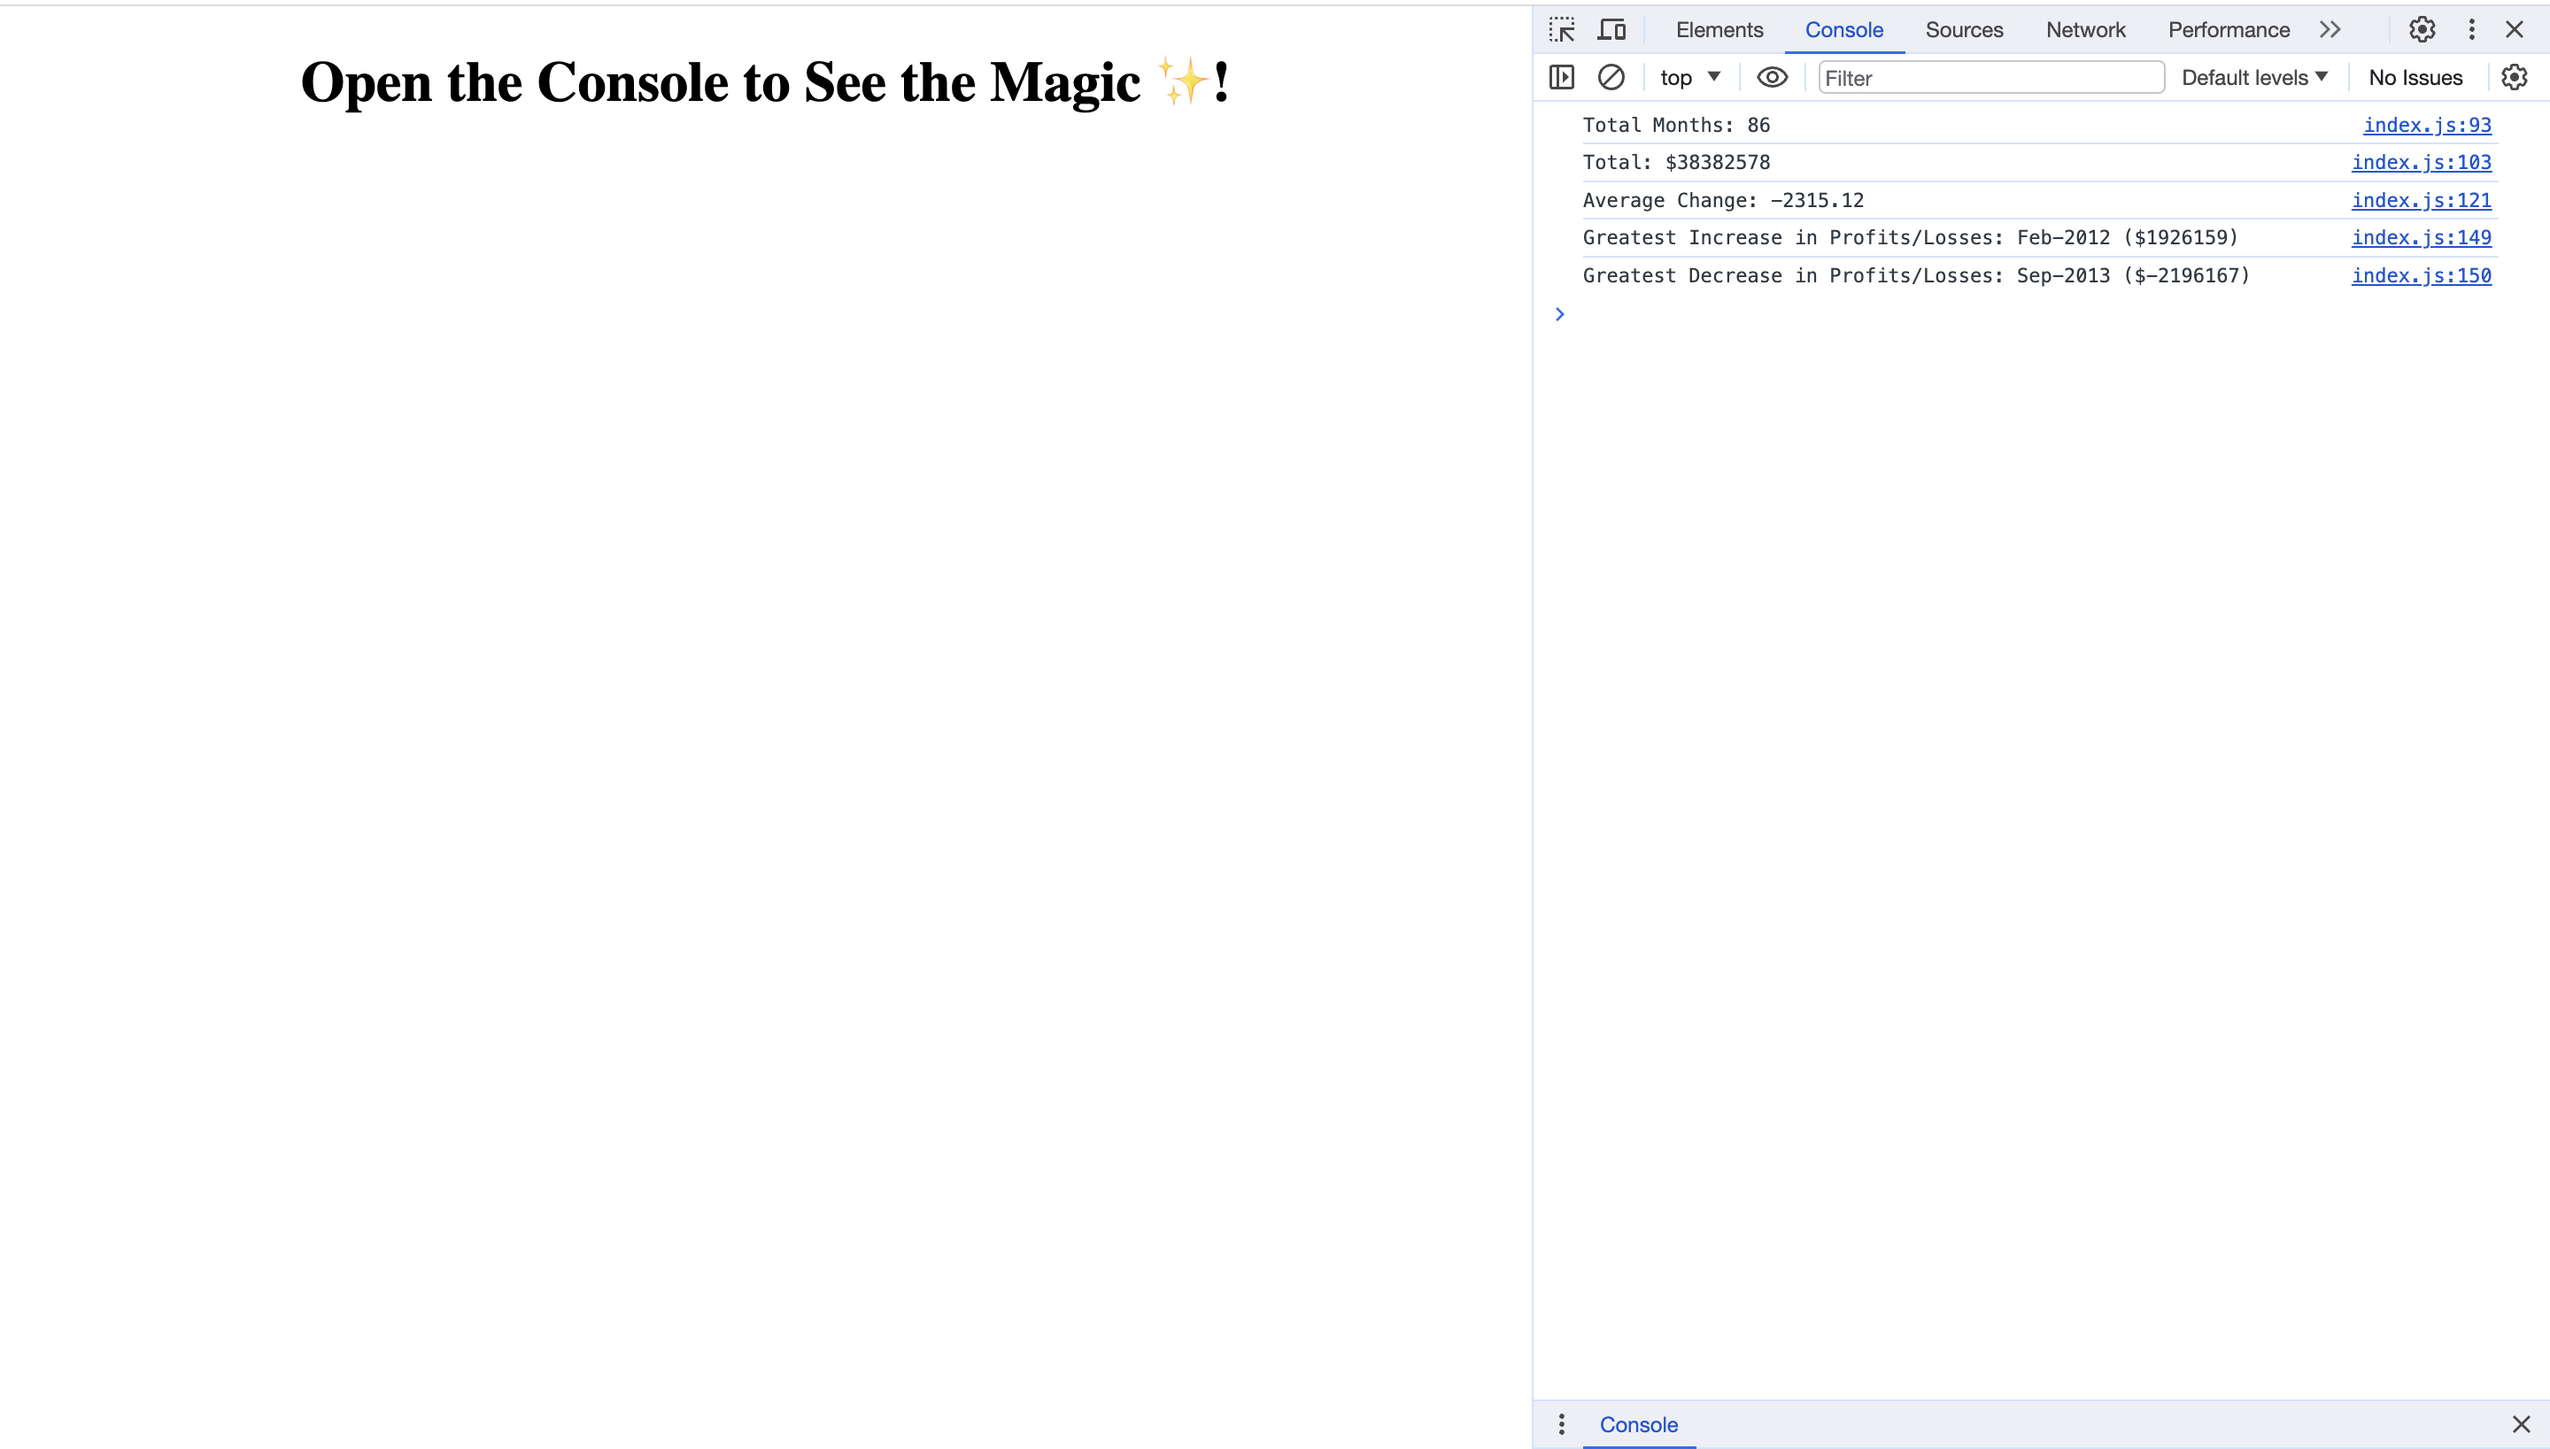
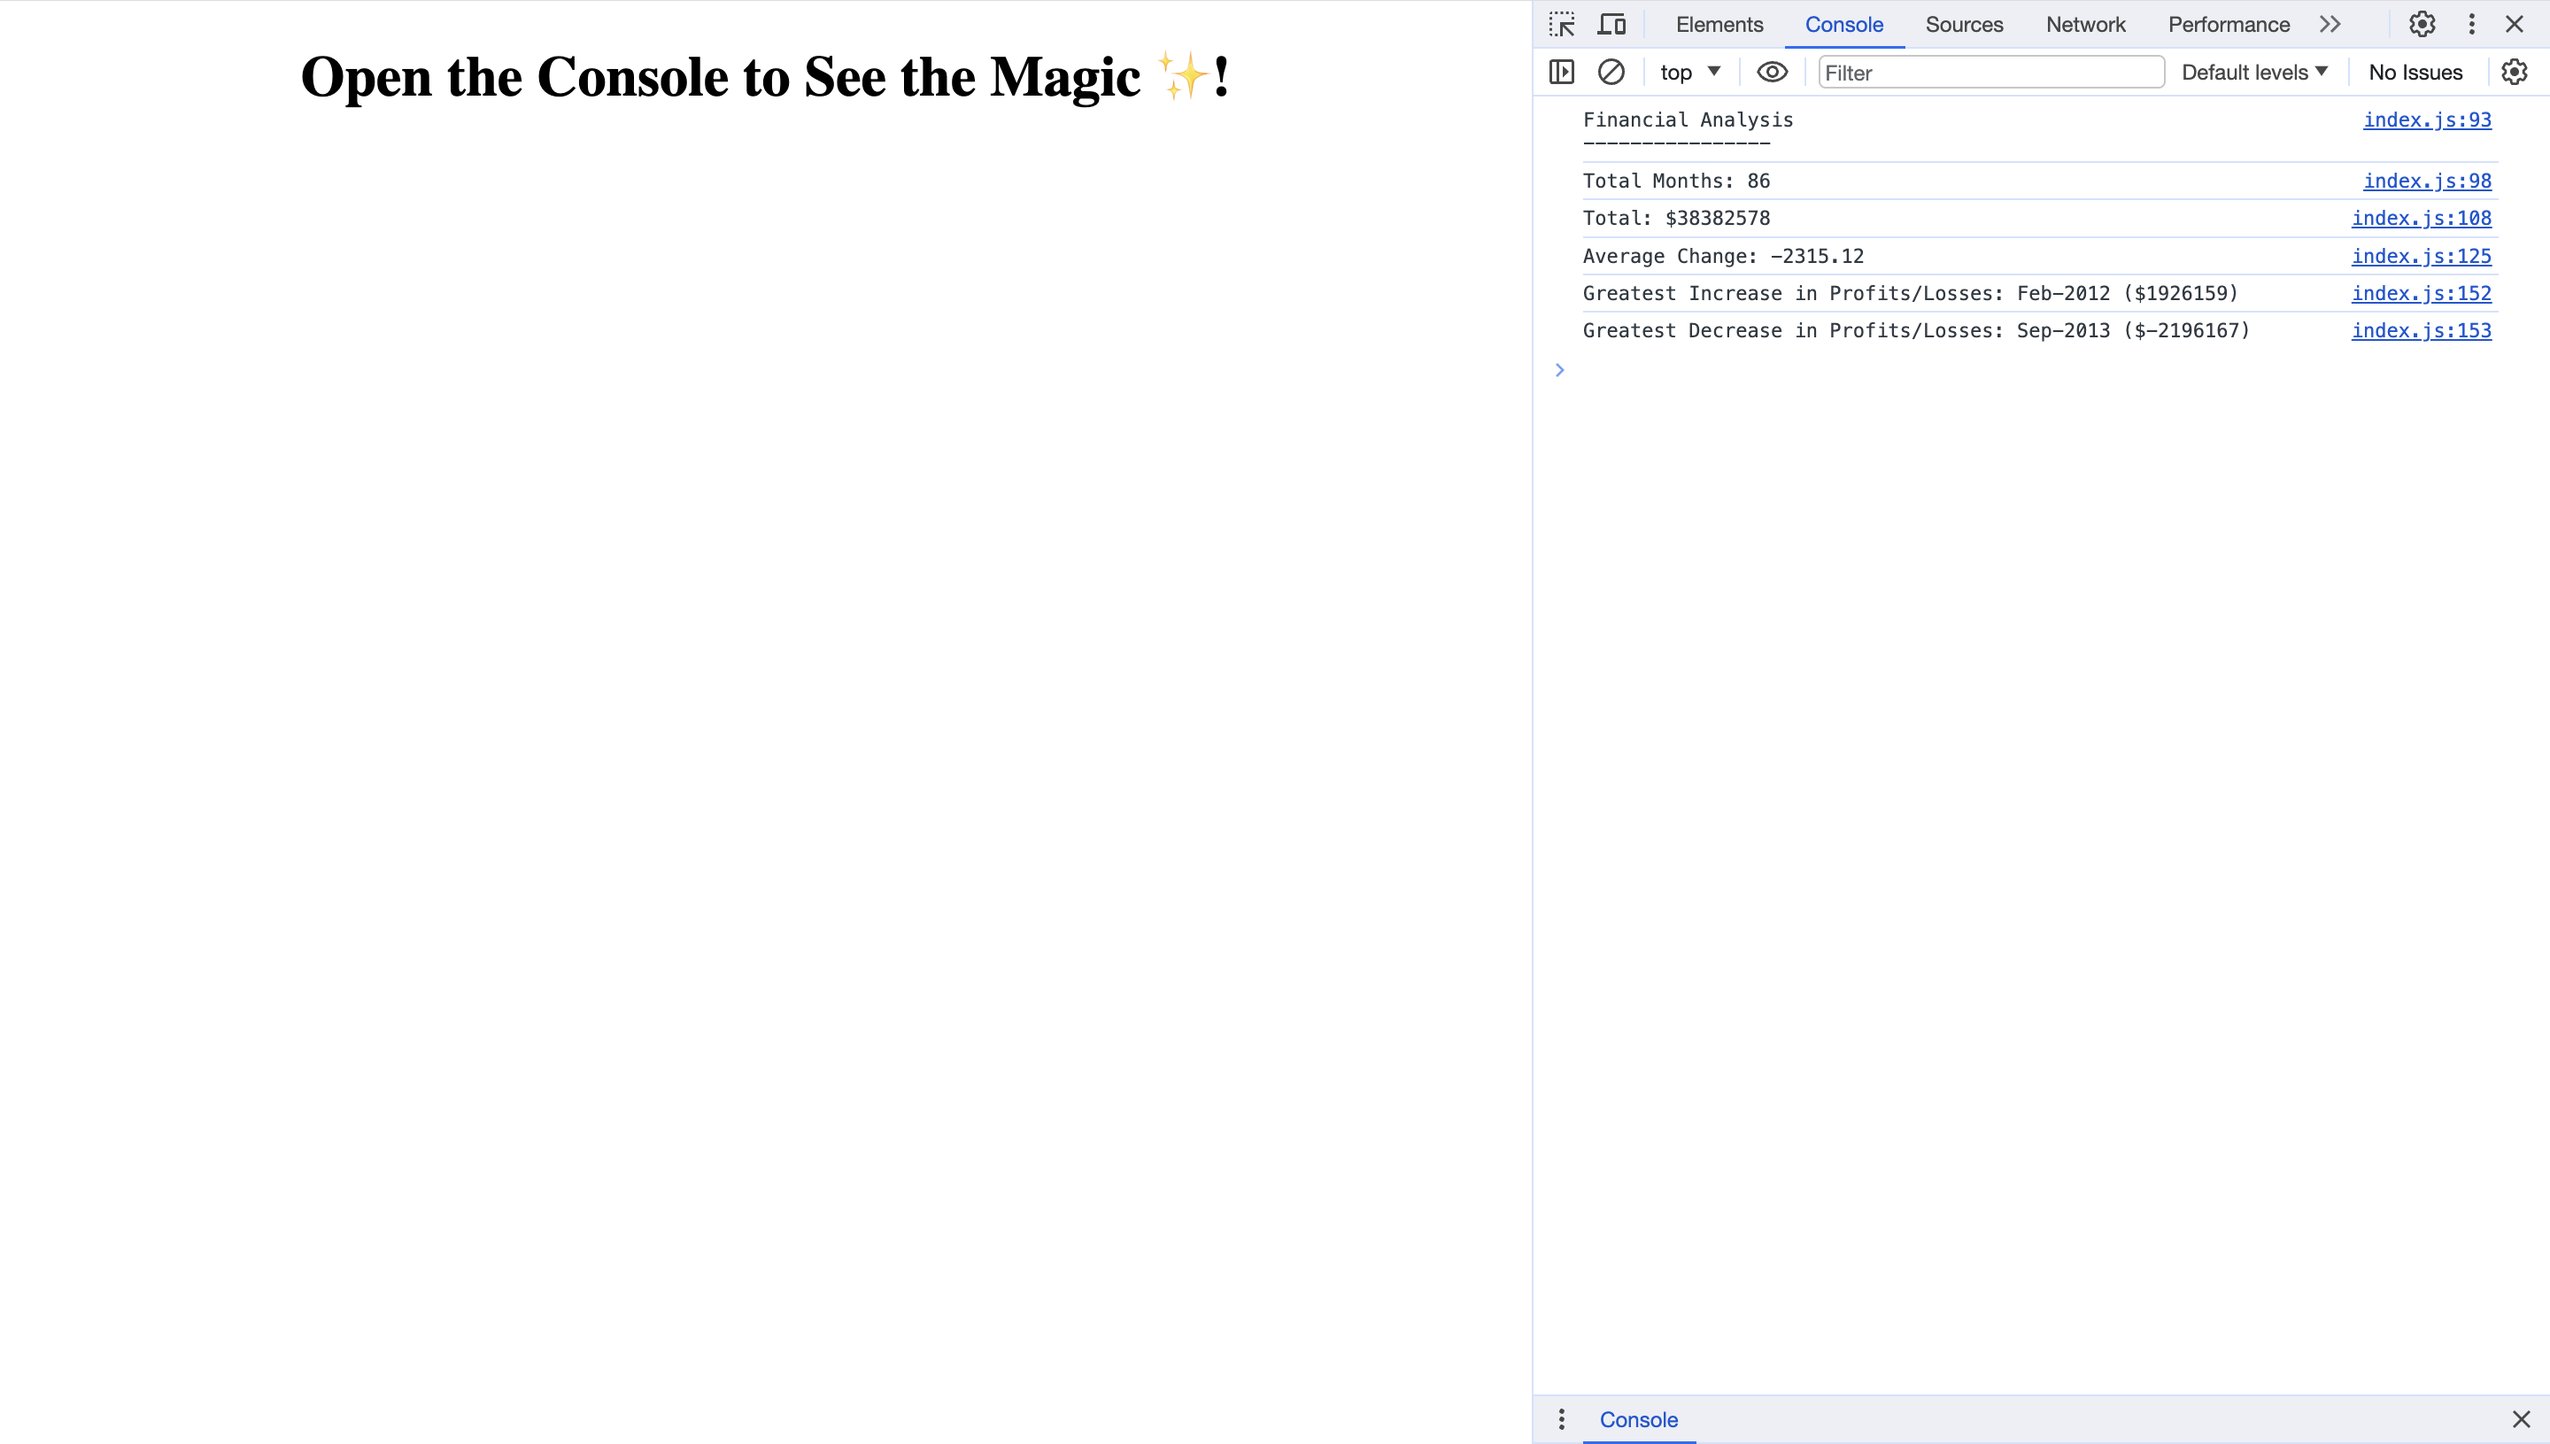
added title to my JS file and amended screenshot

Changed region(s): [[0.5938, 0.0, 1.0, 0.2452], [0.125, 0.0307, 0.4688, 0.092]]

diff --git a/index.js b/index.js
@@ -87,6 +87,13 @@ var finances = [
   ['Feb-2017', 671099],
 ]
 
+// The below is the header for the challenge //
+
+var header = "Financial Analysis"
+var line = "----------------"
+
+console.log(header + '\n' + line)
+
 //The below calculates the total number of month using the .length property
 
 var totalMonths = finances.length
@@ -104,18 +111,18 @@ console.log("Total: " + "$" + netTotal)
 
 //The below is used to calculate total changes between periods listed in our array and the dividing it by (number of months - 1). to avoid getting undefined when using the nextMonthsValue variable, the if statement has been utilised to ensure totalMonthlyChange calculation is computed only if nextMonthsValue is true//
 
-var totalMonthlyChange = 0
+var monthlyPeriodFinancialChange = 0
 
 for(i = 0; i < finances.length; i++){
   var currentMonthsValue = finances[i][1] 
   var nextMonthsValue = finances[i+1]
   if (nextMonthsValue){
-    totalMonthlyChange += nextMonthsValue[1] - currentMonthsValue
+    monthlyPeriodFinancialChange += nextMonthsValue[1] - currentMonthsValue
   }
   
 }
 
-var averageChange = totalMonthlyChange/(totalMonths - 1)
+var averageChange = monthlyPeriodFinancialChange/(totalMonths - 1)
 
 console.log("Average Change: " + averageChange.toFixed(2))
 
